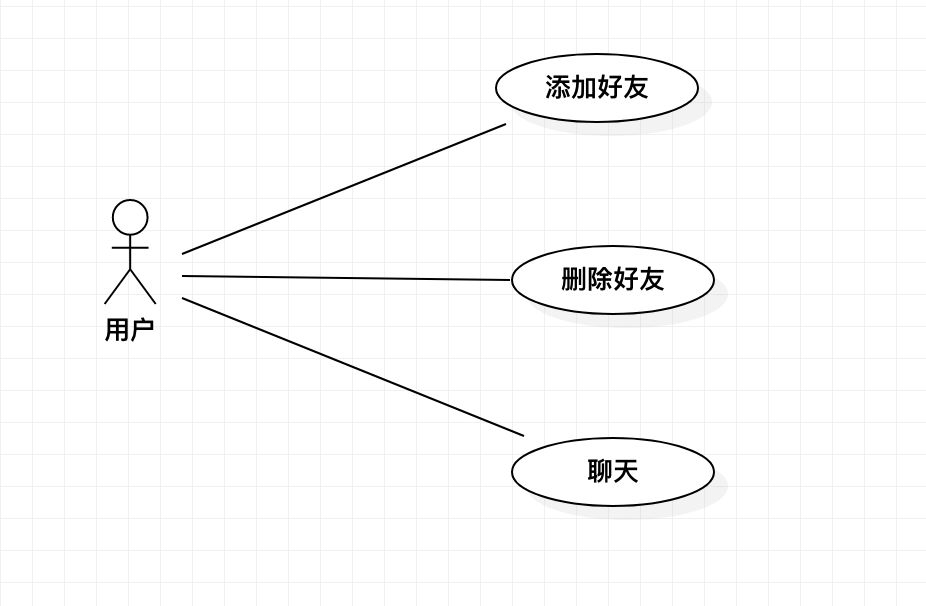
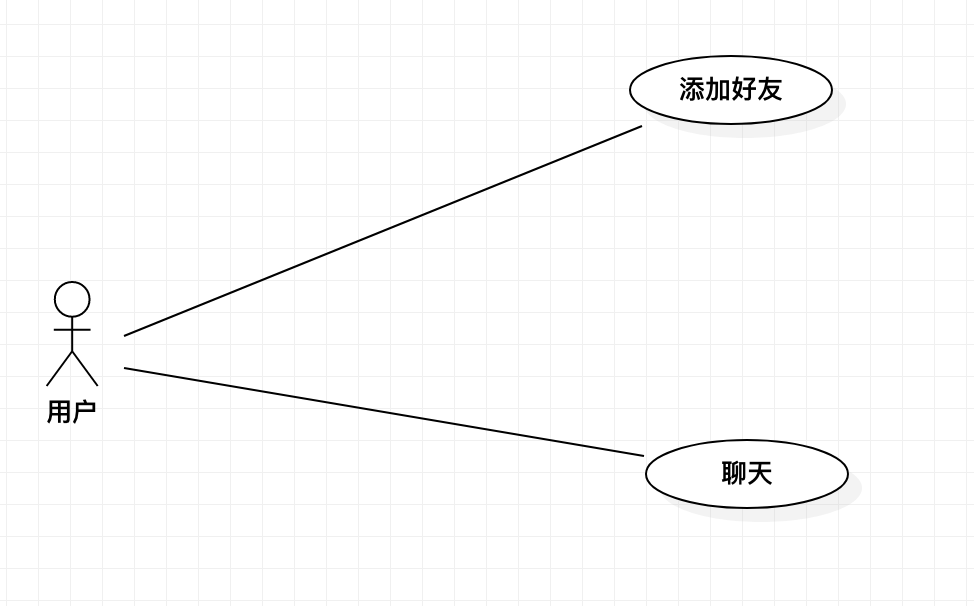
修改

diff --git a/students/1714080902505/聊天系统用例规约.md b/students/1714080902505/聊天系统用例规约.md
@@ -12,24 +12,11 @@
 |          | 3.用户发起添加请求                     |
 |          | 4.系统推送添加请求给对方               |
 |          | 5.对方同意请求                         |
+|          | 6.系统将双方分别添加到对方的好友列表   |
 | 扩展流程 | 系统检查输入手机号码格式错误，提示失败 |
 |          | 系统检查输入手机号码为空。提示失败     |
 
-## 表2：删除好友
 
-| 用例编号 | UC02           |
-| -------- | -------------- |
-| 用例名称 | 删除好友       |
-| 前置条件 | 双方互为好友   |
-| 后置条件 | 无             |
-| 基本步骤 | 1.用户查找好友 |
-|          | 2.用户删除好友 |
-| 扩展流程 | 无             |
-|          |                |
-|          |                |
-|          |                |
-
-## 
 
 ## 表3：发起聊天
 
@@ -41,9 +28,11 @@
 | 基本步骤 | 1.用户创建对话框                     |
 |          | 2.用户输入信息                       |
 |          | 3.用户点击发送按钮                   |
-|          | 3.系统判断互为好友                   |
-|          | 5.系统推送信息                       |
-|          | 6.系统通知对方                       |
+|          | 4.系统判断互为好友                   |
+|          | 5.系统保存信息                       |
+|          | 6.系统发起网络请求                   |
+|          | 7.系统传输消息与对象                 |
+|          | 8.系统通知对方                       |
 | 扩展流程 | 1.系统检查双方不是互为好友，提示失败 |
 
 ## 
